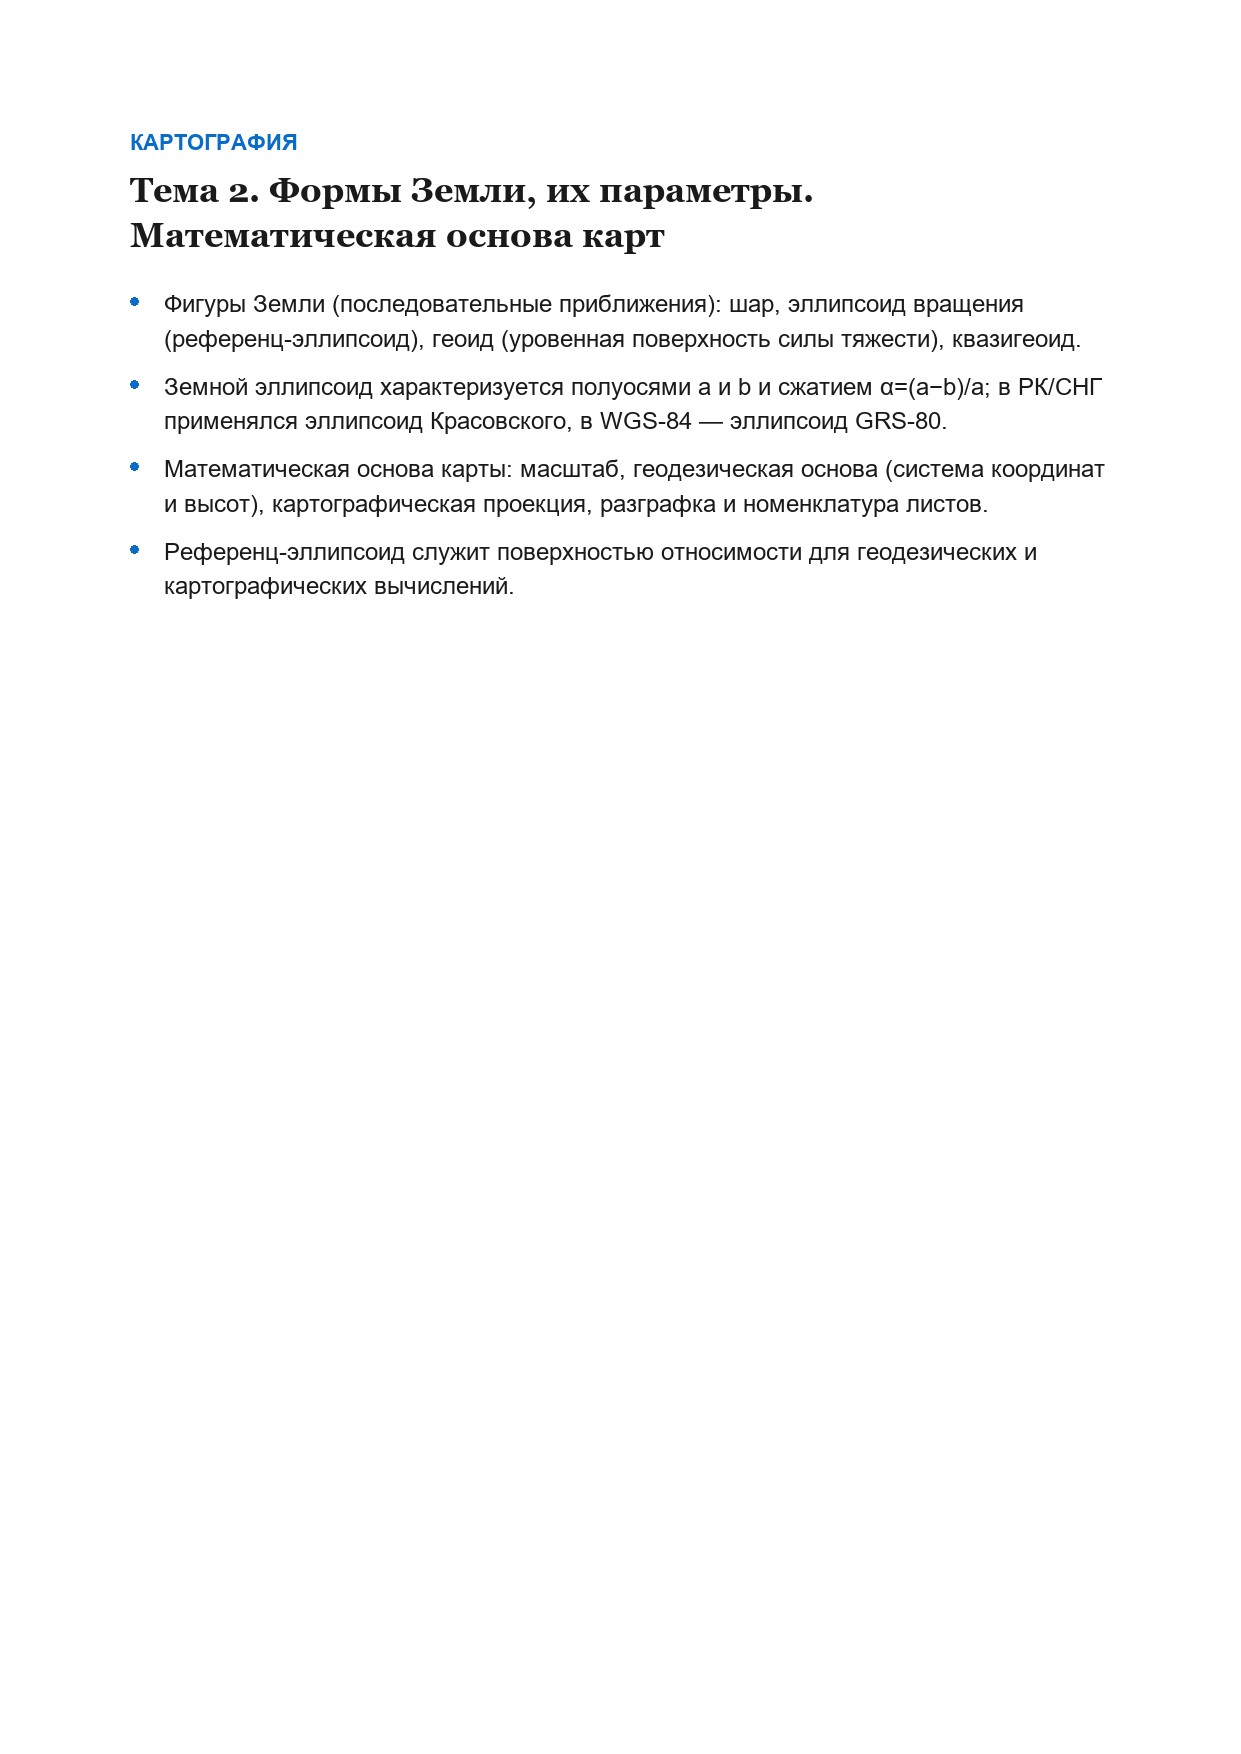
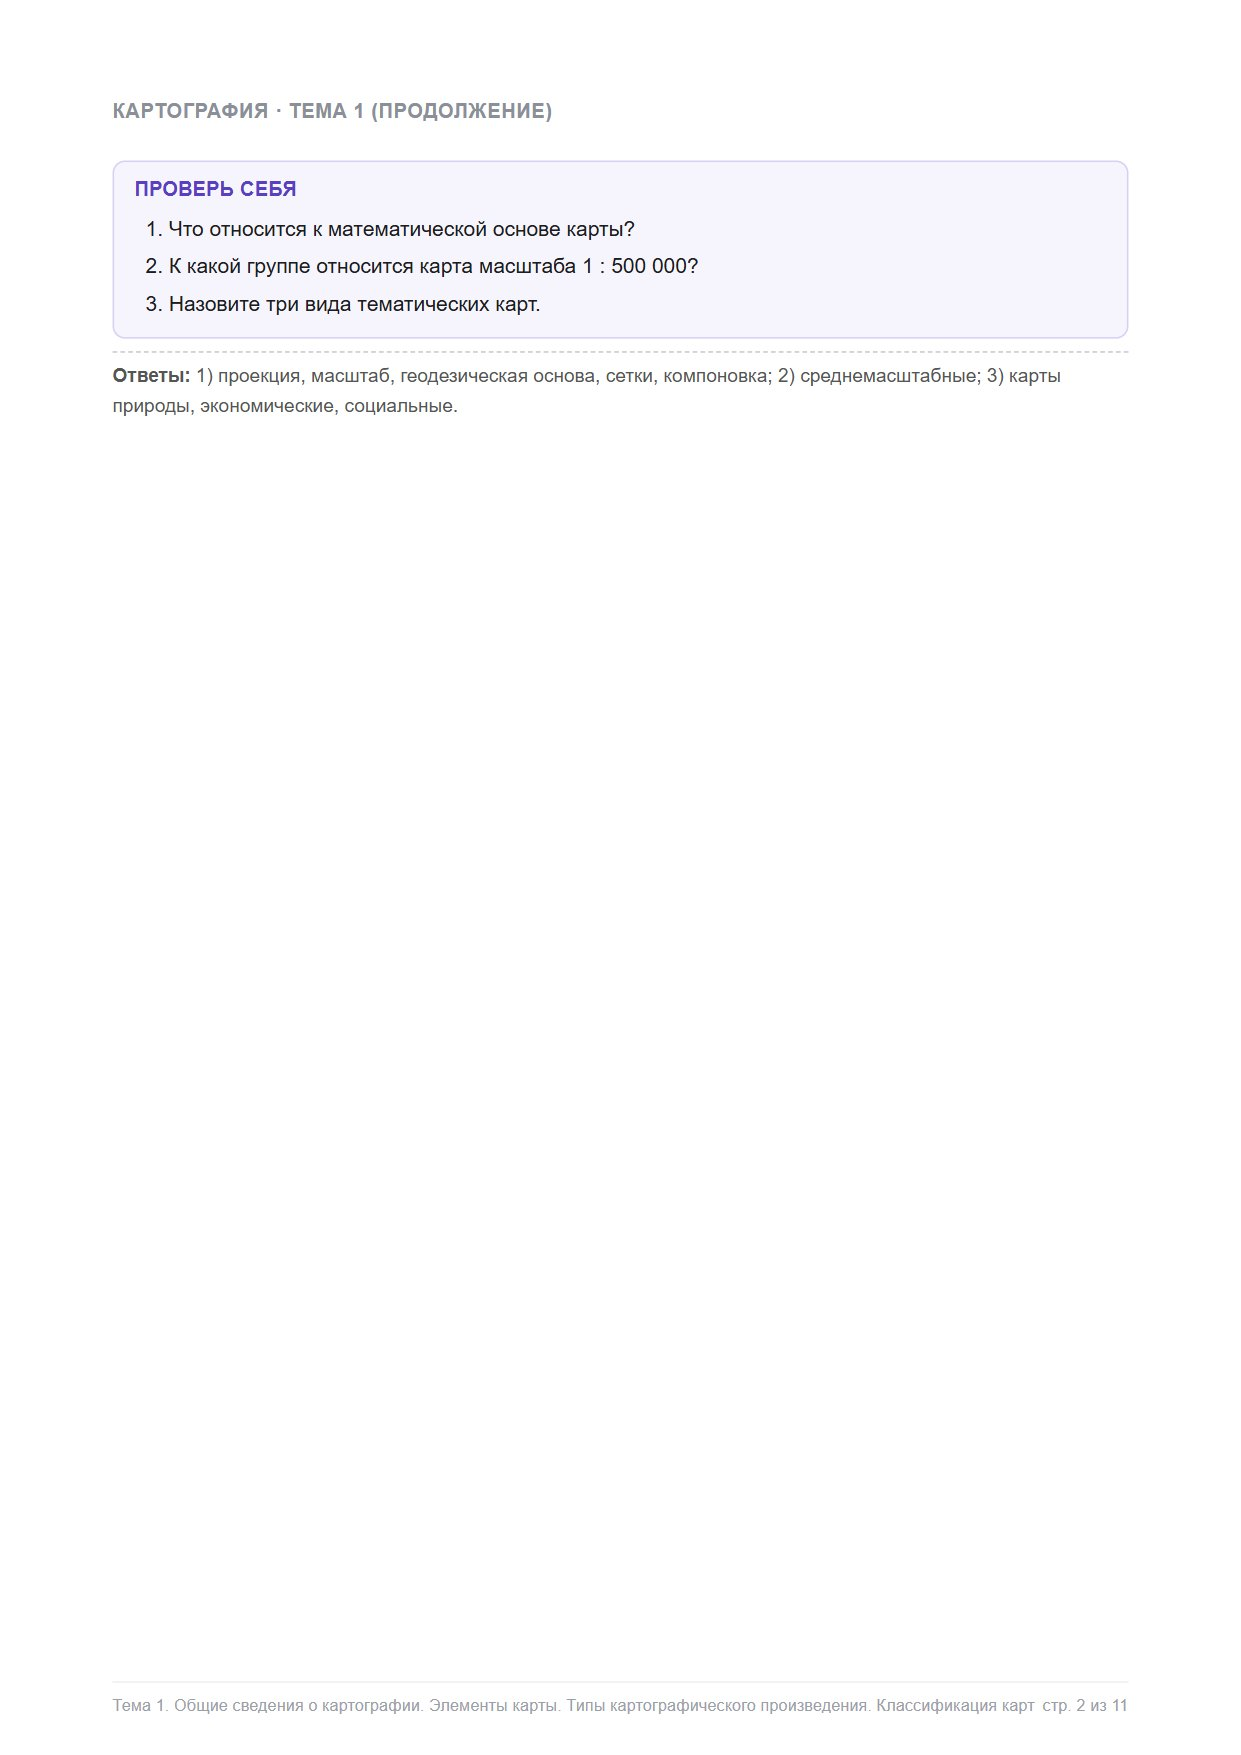
M123: rewrite both conspects as full study guides (32 pages instead of 20)
Геодезия (12 topics, 21 pp.) and Картография (8 topics, 11 pp.), built
around the bank's question types: coordinate systems and Gauss–Krüger
zones, orientation angles with a quarter/rhumb diagram, direct and
inverse geodetic problems, scales/nomenclature/relief, error theory,
theodolite (МО, collimation), tapes and stadia, levelling tolerances and
zero-work points, ГГС classes and traverse checks, surveys, route curves,
GNSS modes and DOP; map elements and classification, ellipsoid and
partial scales (p, a, b), projections, map-making stages,
generalization, cartographic methods and semiotics, design, GIS.
Every topic has worked examples with the bank's numbers, traps and a
self-check with answers. Phone edition added (<file>-m). Bump script.js
to v34.

Changed region(s): [[0.0919, 0.0616, 0.888, 0.3387], [0.3062, 0.9544, 0.3368, 0.9852]]

diff --git a/script.js b/script.js
@@ -287,36 +287,38 @@ const LIBRARY_CONSPECTS = {
         key: 'geodezia',
         title: 'Геодезия',
         file: 'geodezia-2-course',
-        pages: 12,
+        pages: 21,
+        mobile: { pages: 21, starts: [1, 3, 5, 7, 9, 11, 13, 15, 17, 19, 20, 21] },
         topics: [
           { title: 'Тема 1. Определение положения точек земной поверхности. Системы координат и высот, применяемые в геодезии', page: 1 },
-          { title: 'Тема 2. Ориентирование линий местности', page: 2 },
-          { title: 'Тема 3. Прямая и обратная геодезические задачи', page: 3 },
-          { title: 'Тема 4. Топографические карты и планы. Масштабы. Уклон. Рельеф', page: 4 },
-          { title: 'Тема 5. Геодезические измерения и их точность. Теория ошибок', page: 5 },
-          { title: 'Тема 6. Угловые измерения', page: 6 },
-          { title: 'Тема 7. Линейные измерения', page: 7 },
-          { title: 'Тема 8. Измерение превышений', page: 8 },
-          { title: 'Тема 9. Геодезические сети. Плановые и высотные сети сгущения', page: 9 },
-          { title: 'Тема 10. Виды съёмок. Топографические съёмки', page: 10 },
-          { title: 'Тема 11. Начальные сведения из инженерной геодезии', page: 11 },
-          { title: 'Тема 12. Современные геодезические приборы', page: 12 },
+          { title: 'Тема 2. Ориентирование линий местности', page: 3 },
+          { title: 'Тема 3. Прямая и обратная геодезические задачи', page: 5 },
+          { title: 'Тема 4. Топографические карты и планы. Масштабы. Уклон. Рельеф', page: 7 },
+          { title: 'Тема 5. Геодезические измерения и их точность. Теория ошибок', page: 9 },
+          { title: 'Тема 6. Угловые измерения', page: 11 },
+          { title: 'Тема 7. Линейные измерения', page: 13 },
+          { title: 'Тема 8. Измерение превышений', page: 15 },
+          { title: 'Тема 9. Геодезические сети. Плановые и высотные сети сгущения', page: 17 },
+          { title: 'Тема 10. Виды съёмок. Топографические съёмки', page: 19 },
+          { title: 'Тема 11. Начальные сведения из инженерной геодезии', page: 20 },
+          { title: 'Тема 12. Современные геодезические приборы', page: 21 },
         ],
       },
       {
         key: 'kartografiya',
         title: 'Картография',
         file: 'kartografiya-course',
-        pages: 8,
+        pages: 11,
+        mobile: { pages: 11, starts: [1, 3, 5, 7, 8, 9, 10, 11] },
         topics: [
           { title: 'Тема 1. Общие сведения о картографии. Элементы карты. Типы картографического произведения. Классификация карт', page: 1 },
-          { title: 'Тема 2. Формы Земли, их параметры. Математическая основа карт', page: 2 },
-          { title: 'Тема 3. Картографические проекции. Искажения на картах. Номенклатура', page: 3 },
-          { title: 'Тема 4. Основные этапы создания карт', page: 4 },
-          { title: 'Тема 5. Картографическая генерализация — типы и особенности', page: 5 },
-          { title: 'Тема 6. Картографические способы изображения тематических данных. Картографическая семиотика', page: 6 },
-          { title: 'Тема 7. Картографический дизайн и его технология', page: 7 },
-          { title: 'Тема 8. Геоинформационное картографирование — содержание и технология', page: 8 },
+          { title: 'Тема 2. Формы Земли, их параметры. Математическая основа карт', page: 3 },
+          { title: 'Тема 3. Картографические проекции. Искажения на картах. Номенклатура', page: 5 },
+          { title: 'Тема 4. Основные этапы создания карт', page: 7 },
+          { title: 'Тема 5. Картографическая генерализация — типы и особенности', page: 8 },
+          { title: 'Тема 6. Картографические способы изображения тематических данных. Картографическая семиотика', page: 9 },
+          { title: 'Тема 7. Картографический дизайн и его технология', page: 10 },
+          { title: 'Тема 8. Геоинформационное картографирование — содержание и технология', page: 11 },
         ],
       },
     ],

diff --git a/konspekty.html b/konspekty.html
@@ -270,7 +270,7 @@
 </footer>
 
 <script src="i18n.js?v=4"></script>
-<script src="script.js?v=33"></script>
+<script src="script.js?v=34"></script>
 <script>
   const root = document.getElementById('root');
   const libDocTitleEl = document.getElementById('libDocTitle');

diff --git a/index.html b/index.html
@@ -439,7 +439,7 @@
 </div>
 
 <script src="i18n.js?v=4"></script>
-<script src="script.js?v=33"></script>
+<script src="script.js?v=34"></script>
 <script src="kt.js?v=34"></script>
 </body>
 </html>

diff --git a/cabinet.html b/cabinet.html
@@ -249,6 +249,6 @@
 </div>
 
 <script src="i18n.js?v=4"></script>
-<script src="script.js?v=33"></script>
+<script src="script.js?v=34"></script>
 </body>
 </html>
